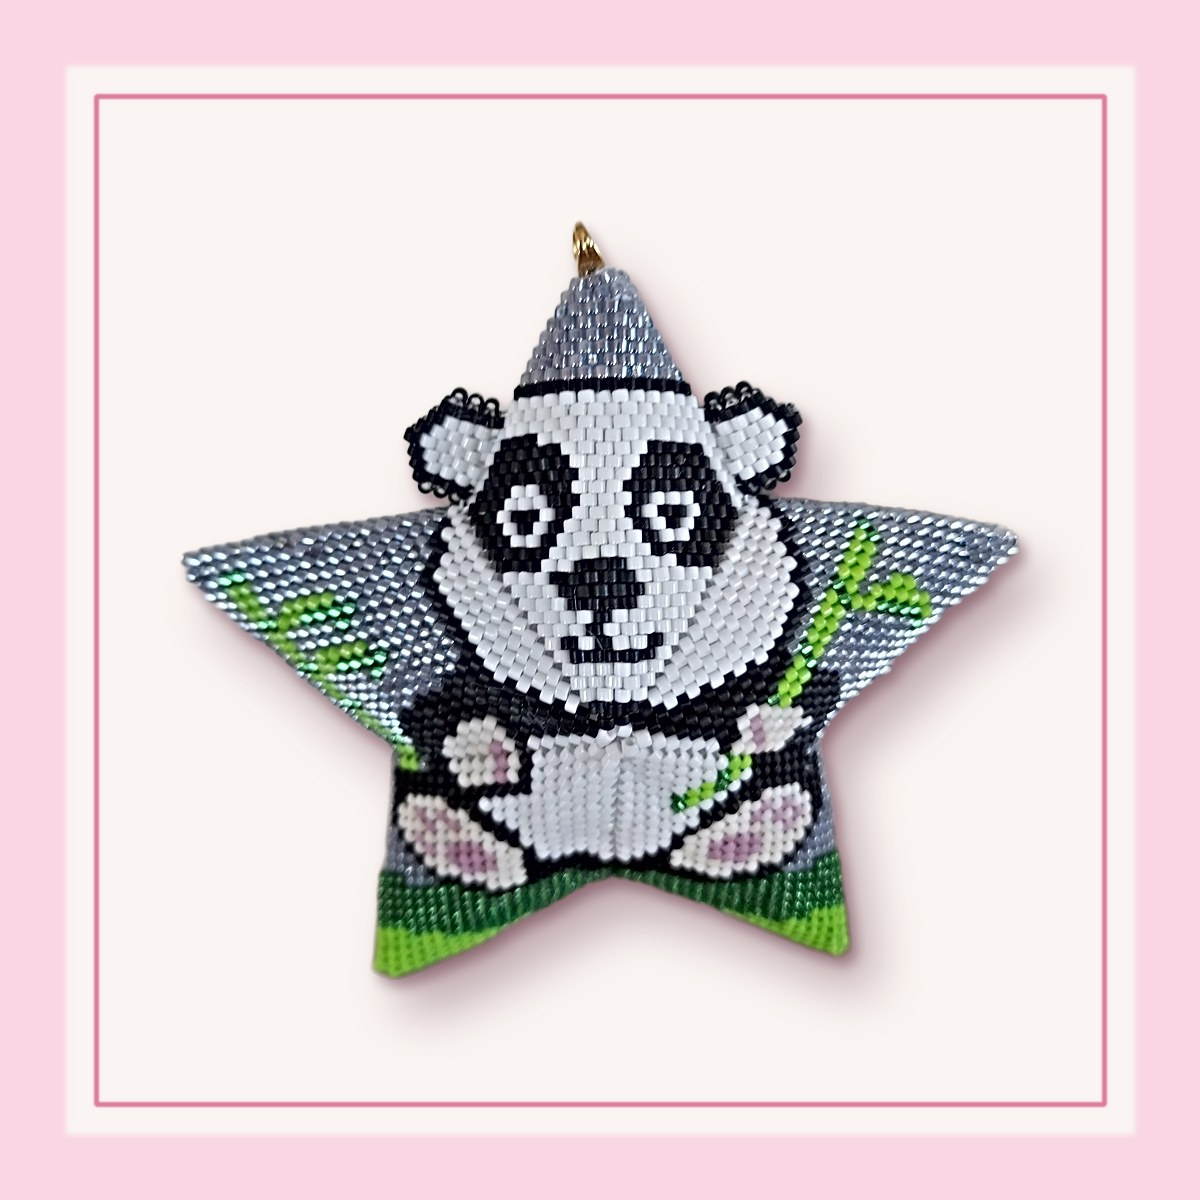
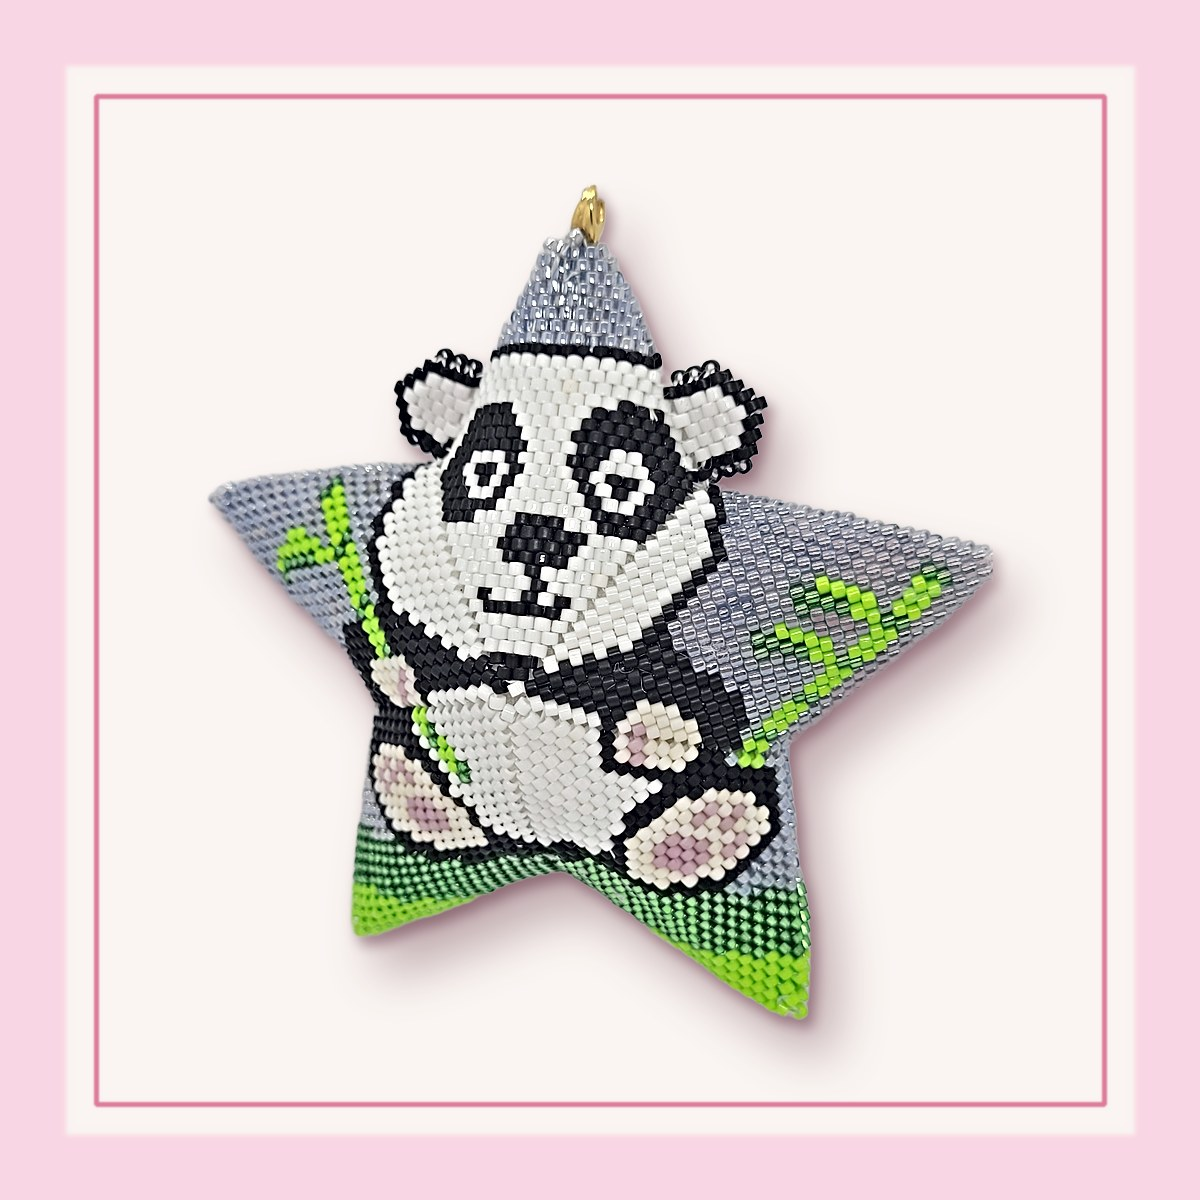
nouveautés

Changed region(s): [[0.1542, 0.1542, 0.8633, 0.8942]]

diff --git a/js/bijoux.js b/js/bijoux.js
@@ -2047,6 +2047,22 @@ const bijoux = [
     "desc": ""
   },
   {
+    "id": "bracelets--sahara-by-cachanax-bleu-et-marron",
+    "titre": "Sahara by Cachanax bleu et marron",
+    "categorie": "Bracelets",
+    "dossier": "Sahara by Cachanax bleu et marron",
+    "vignette": "img/bracelets/sahara-by-cachanax-bleu-et-marron/1.jpg",
+    "photos": [
+      "img/bracelets/sahara-by-cachanax-bleu-et-marron/1.jpg",
+      "img/bracelets/sahara-by-cachanax-bleu-et-marron/2.jpg",
+      "img/bracelets/sahara-by-cachanax-bleu-et-marron/3.jpg",
+      "img/bracelets/sahara-by-cachanax-bleu-et-marron/4.jpg",
+      "img/bracelets/sahara-by-cachanax-bleu-et-marron/5.jpg"
+    ],
+    "disponible": "oui",
+    "desc": "Bracelet en micro-macramé, avec 2 strass marron pour donner de l'éclat, entourés de perles dont de véritables turquoises. Adapté pour un petit poignet, de 17 cm à 19 cm."
+  },
+  {
     "id": "bracelets--sahara-by-cachanax-noir-rouge",
     "titre": "Sahara by Cachanax noir rouge",
     "categorie": "Bracelets",
@@ -3022,6 +3038,22 @@ const bijoux = [
     "desc": ""
   },
   {
+    "id": "divers--berlingot-a-tresor",
+    "titre": "Berlingot à trésor",
+    "categorie": "Divers",
+    "dossier": "Berlingot à trésor",
+    "vignette": "img/divers/berlingot-a-tresor/1.jpg",
+    "photos": [
+      "img/divers/berlingot-a-tresor/1.jpg",
+      "img/divers/berlingot-a-tresor/2.jpg",
+      "img/divers/berlingot-a-tresor/3.jpg",
+      "img/divers/berlingot-a-tresor/4.jpg",
+      "img/divers/berlingot-a-tresor/5.jpg"
+    ],
+    "disponible": "oui",
+    "desc": "Tissage de perles plié pour former un berlingot, doublé de tissu et avec une fermeture éclair pour le fermer. Il peut contenir des écouteurs, ou tout autre petit objet à protéger dans un sac."
+  },
+  {
     "id": "divers--biche-fleurie",
     "titre": "Biche fleurie",
     "categorie": "Divers",
@@ -3064,6 +3096,22 @@ const bijoux = [
     ],
     "disponible": "non",
     "desc": ""
+  },
+  {
+    "id": "divers--boule-smiley",
+    "titre": "Boule Smiley",
+    "categorie": "Divers",
+    "dossier": "Boule Smiley",
+    "vignette": "img/divers/boule-smiley/1.jpg",
+    "photos": [
+      "img/divers/boule-smiley/1.jpg",
+      "img/divers/boule-smiley/2.jpg",
+      "img/divers/boule-smiley/3.jpg",
+      "img/divers/boule-smiley/4.jpg",
+      "img/divers/boule-smiley/5.jpg"
+    ],
+    "disponible": "oui",
+    "desc": "Boule en bois recouverte de perles représentant 1 visage joyeux ou un visage amoureux avec des lunettes de soleil, selon le côté affiché. Cette boule peut être suspendue comme un marqueur d'humeur , mais elle vous fera toujours sourire."
   },
   {
     "id": "divers--broche-papillon",
@@ -3426,6 +3474,22 @@ const bijoux = [
     "desc": "Chat Recto verso, en 3D."
   },
   {
+    "id": "divers--porte-cles-smiley",
+    "titre": "Porte clés Smiley",
+    "categorie": "Divers",
+    "dossier": "Porte clés Smiley",
+    "vignette": "img/divers/porte-cles-smiley/1.jpg",
+    "photos": [
+      "img/divers/porte-cles-smiley/1.jpg",
+      "img/divers/porte-cles-smiley/2.jpg",
+      "img/divers/porte-cles-smiley/3.jpg",
+      "img/divers/porte-cles-smiley/4.jpg",
+      "img/divers/porte-cles-smiley/5.jpg"
+    ],
+    "disponible": "oui",
+    "desc": "Boule en bois recouverte de perles représentant 1 visage triste ou un visage souriant avec des lunettes de soleil, selon le côté affiché. Monté en porte-clés, il peut aussi devenir un bijou de sac."
+  },
+  {
     "id": "divers--reines-des-abeilles",
     "titre": "Reines des abeilles",
     "categorie": "Divers",
@@ -3682,6 +3746,22 @@ const bijoux = [
     "desc": "Boule de Noël tissée en petites perles galvanisées pour un effet brillant."
   },
   {
+    "id": "noel--boule-vert-et-blanc",
+    "titre": "Boule vert et blanc",
+    "categorie": "Noël",
+    "dossier": "Boule vert et blanc",
+    "vignette": "img/noel/boule-vert-et-blanc/1.jpg",
+    "photos": [
+      "img/noel/boule-vert-et-blanc/1.jpg",
+      "img/noel/boule-vert-et-blanc/2.jpg",
+      "img/noel/boule-vert-et-blanc/3.jpg",
+      "img/noel/boule-vert-et-blanc/4.jpg",
+      "img/noel/boule-vert-et-blanc/5.jpg"
+    ],
+    "disponible": "oui",
+    "desc": "Boule de Noël tissée en petites perles et perles Swarovski pour un effet brillant."
+  },
+  {
     "id": "noel--boule-village-sous-la-neige",
     "titre": "Boule village sous la neige",
     "categorie": "Noël",
@@ -3840,7 +3920,10 @@ const bijoux = [
     "vignette": "img/noel/etoile-orange-et-anis/1.jpg",
     "photos": [
       "img/noel/etoile-orange-et-anis/1.jpg",
-      "img/noel/etoile-orange-et-anis/2.jpg"
+      "img/noel/etoile-orange-et-anis/2.jpg",
+      "img/noel/etoile-orange-et-anis/3.jpg",
+      "img/noel/etoile-orange-et-anis/4.jpg",
+      "img/noel/etoile-orange-et-anis/5.jpg"
     ],
     "disponible": "oui",
     "desc": "Etoile tissée en perles, en 3D, dans des couleurs vives pour égayer le sapin."
@@ -3853,7 +3936,10 @@ const bijoux = [
     "vignette": "img/noel/etoile-panda/1.jpg",
     "photos": [
       "img/noel/etoile-panda/1.jpg",
-      "img/noel/etoile-panda/2.jpg"
+      "img/noel/etoile-panda/2.jpg",
+      "img/noel/etoile-panda/3.jpg",
+      "img/noel/etoile-panda/4.jpg",
+      "img/noel/etoile-panda/5.jpg"
     ],
     "disponible": "oui",
     "desc": "Cette étoile en 3D, tissée en petites perles, offre une originalité avec les petites oreilles du panda en relief."
@@ -3981,6 +4067,22 @@ const bijoux = [
     ],
     "disponible": "oui",
     "desc": "Personnages en perles tissées, avec franges de perles."
+  },
+  {
+    "id": "noel--ourson-noel",
+    "titre": "Ourson Noël",
+    "categorie": "Noël",
+    "dossier": "Ourson Noël",
+    "vignette": "img/noel/ourson-noel/1.jpg",
+    "photos": [
+      "img/noel/ourson-noel/1.jpg",
+      "img/noel/ourson-noel/2.jpg",
+      "img/noel/ourson-noel/3.jpg",
+      "img/noel/ourson-noel/4.jpg",
+      "img/noel/ourson-noel/5.jpg"
+    ],
+    "disponible": "oui",
+    "desc": "Ourson tissé en perles, en 3D, habillé en père noël. Il s'agit d'un objet décoratif, qui peut être suspendu dans le sapin ou juste posé. Les bras et les jambes sont articulés."
   },
   {
     "id": "noel--sapin",
